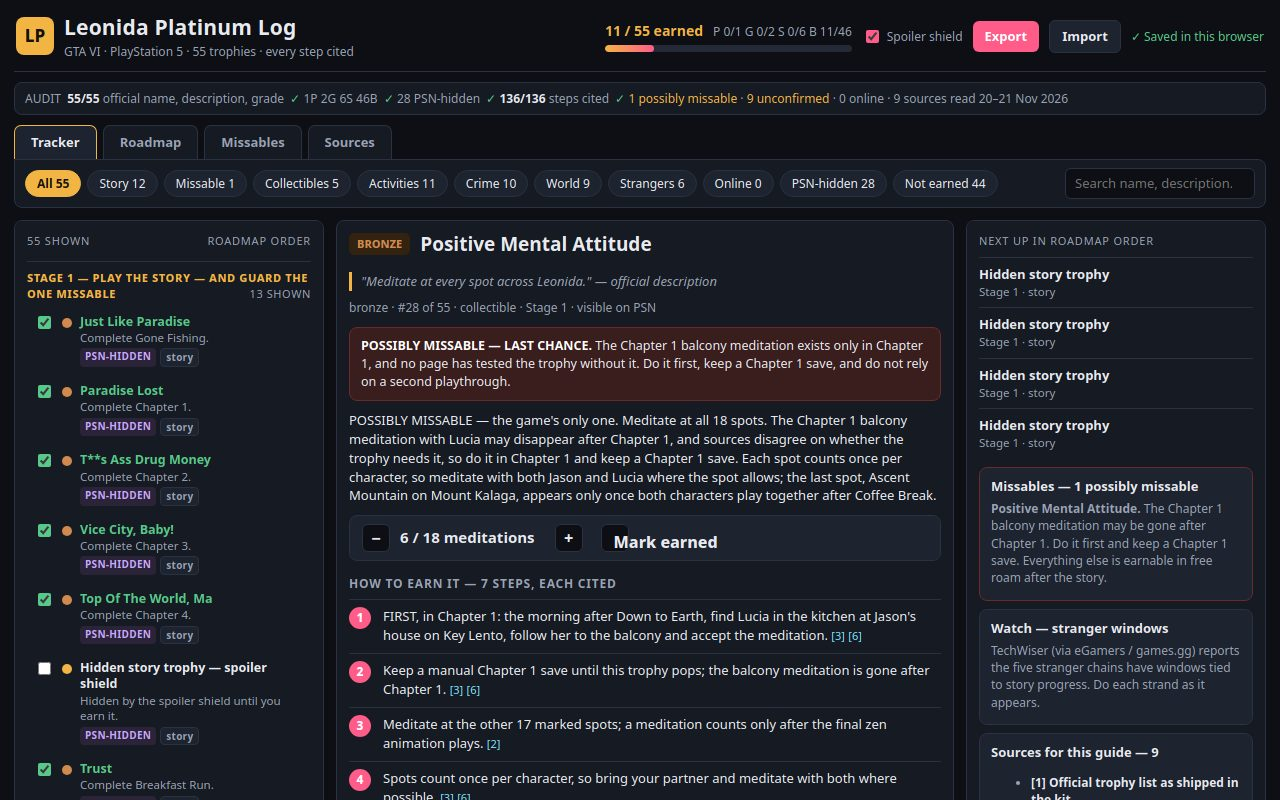
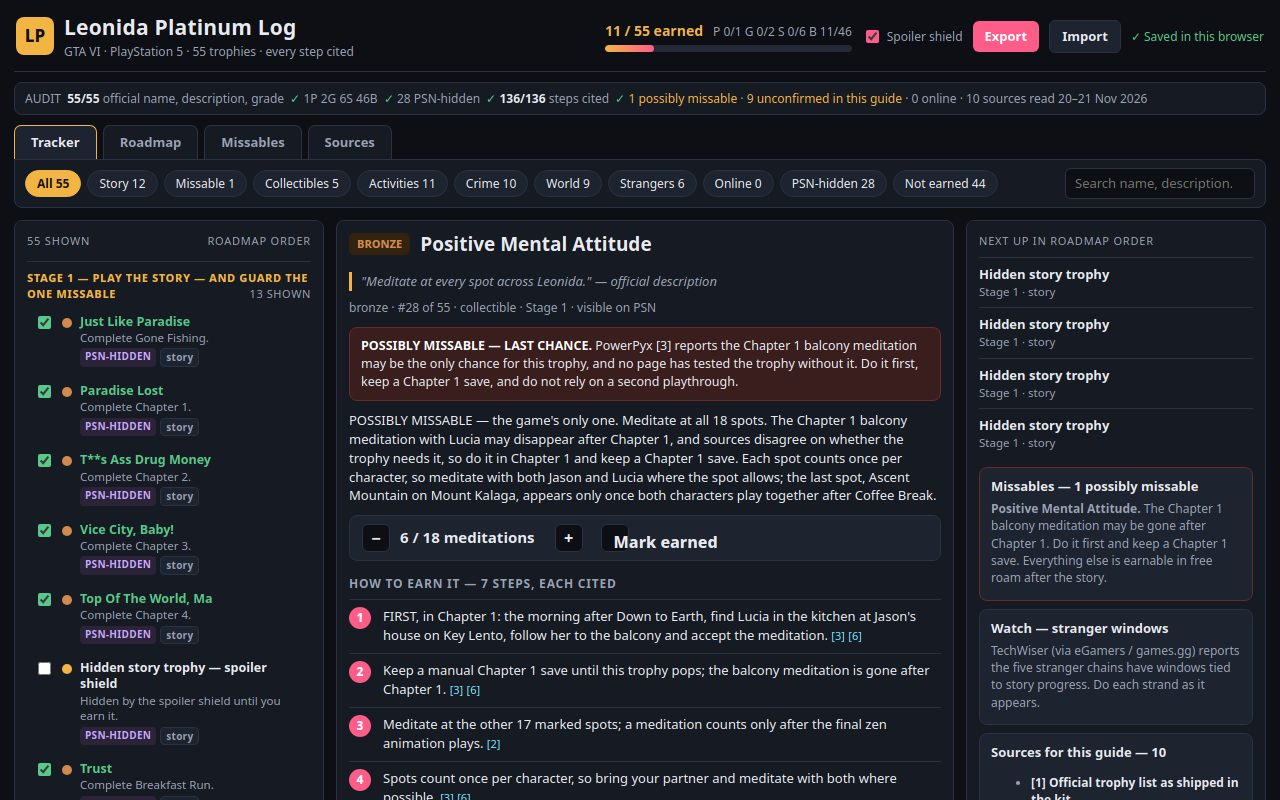
Rerecord v3: re-apply Dot review fixes inside a fresh recording
v2 (d88e7246) was rejected by the platform on transcripts_witnessed:
its fix-round files were changed outside the v1 recording. This v3
re-applies the same four fixes from the v1 code, all written inside
the new recording session, and supersedes v2 in full.

- Demo isolation: ?demo=1 now reads and writes only
  leonida-platinum-log-demo-v1, never the real progress key.
- Spoiler shield: a masked trophy never matches a search query.
- Audit strip reads '9 unconfirmed in this guide'; roadmap stage 6
  notes five of them are still listed unsolved by GameMapa [5].
- Missable banner cites PowerPyx [3] with uncertain wording kept;
  GTABase added as source [10], and the 54 free-roam trophies now
  cite GTABase [10] instead of PushSquare.

Screenshots regenerated from this tree; CDP functional tests 16/16.

Changed region(s): [[0.2812, 0.4062, 0.7188, 0.5], [0.6562, 0.0938, 0.8438, 0.1562]]

diff --git a/app/app.js b/app/app.js
@@ -1,6 +1,7 @@
 // Leonida Platinum Log: offline GTA VI trophy guide and tracker.
 // Loads its own data files only, saves progress in localStorage, exports and imports it.
 const STORE_KEY = 'leonida-platinum-log-v1';
+const DEMO_STORE_KEY = 'leonida-platinum-log-demo-v1';
 const DEMO_EARNED = ['Just Like Paradise', 'Paradise Lost', 'T**s Ass Drug Money', 'Vice City, Baby!', 'Top Of The World, Ma', 'Trust', 'Master of None', 'Baited My Tackle', 'Stick Fiddler', 'Whip It Good', 'Treat Yo Self'];
 const DEMO_COUNTS = { 15: 120, 17: 20, 28: 6, 30: 1, 31: 40, 32: 25 };
 
@@ -13,6 +14,7 @@ const spoilerToggle = document.getElementById('spoilerToggle');
 
 let guideData = null;
 let metaData = null;
+let activeStoreKey = STORE_KEY;
 let state = loadProgress();
 let selectedId = 28;
 let currentFilter = 'all';
@@ -21,7 +23,7 @@ let searchQuery = '';
 
 function loadProgress() {
   try {
-    const saved = JSON.parse(localStorage.getItem(STORE_KEY) ?? 'null');
+    const saved = JSON.parse(localStorage.getItem(activeStoreKey) ?? 'null');
     if (saved && Array.isArray(saved.earned)) {
       return { earned: new Set(saved.earned), counts: saved.counts ?? {}, spoiler: saved.spoiler ?? true };
     }
@@ -30,7 +32,7 @@ function loadProgress() {
 }
 
 function saveProgress() {
-  localStorage.setItem(STORE_KEY, JSON.stringify({
+  localStorage.setItem(activeStoreKey, JSON.stringify({
     earned: [...state.earned], counts: state.counts, spoiler: state.spoiler,
   }));
 }
@@ -65,7 +67,7 @@ function renderAuditStrip() {
   const hidden = guideData.trophies.filter((t) => t.hidden).length;
   const unconfirmed = guideData.trophies.filter((t) => t.guide.includes('UNCONFIRMED')).length;
   const missable = guideData.trophies.filter((t) => t.missable).length;
-  auditStrip.innerHTML = `AUDIT &nbsp;<b>55/55</b> official name, description, grade &nbsp;<span class="ok">&#10003;</span> 1P 2G 6S 46B &nbsp;<span class="ok">&#10003;</span> ${hidden} PSN-hidden &nbsp;<span class="ok">&#10003;</span> <b>${cited}/${steps.length}</b> steps cited &nbsp;<span class="ok">&#10003;</span> <span class="warn">${missable} possibly missable</span> &middot; <span class="warn">${unconfirmed} unconfirmed</span> &middot; 0 online &middot; ${metaData.sources.length} sources read 20&ndash;21 Nov 2026`;
+  auditStrip.innerHTML = `AUDIT &nbsp;<b>55/55</b> official name, description, grade &nbsp;<span class="ok">&#10003;</span> 1P 2G 6S 46B &nbsp;<span class="ok">&#10003;</span> ${hidden} PSN-hidden &nbsp;<span class="ok">&#10003;</span> <b>${cited}/${steps.length}</b> steps cited &nbsp;<span class="ok">&#10003;</span> <span class="warn">${missable} possibly missable</span> &middot; <span class="warn">${unconfirmed} unconfirmed in this guide</span> &middot; 0 online &middot; ${metaData.sources.length} sources read 20&ndash;21 Nov 2026`;
 }
 
 function filterDefinitions() {
@@ -110,7 +112,7 @@ function visibleTrophies() {
   const fn = defs[currentFilter] ?? (() => true);
   const q = searchQuery.trim().toLowerCase();
   return guideData.trophies
-    .filter((t) => fn(t) && (!q || `${t.name} ${t.description}`.toLowerCase().includes(q)))
+    .filter((t) => fn(t) && (!q || (!isMasked(t) && `${t.name} ${t.description}`.toLowerCase().includes(q))))
     .sort((a, b) => a.stage - b.stage || a.id - b.id);
 }
 
@@ -210,7 +212,7 @@ function renderGuideDetail() {
   if (t.missable) {
     const banner = document.createElement('div');
     banner.className = 'banner miss';
-    banner.innerHTML = '<b>POSSIBLY MISSABLE — LAST CHANCE.</b> The Chapter 1 balcony meditation exists only in Chapter 1, and no page has tested the trophy without it. Do it first, keep a Chapter 1 save, and do not rely on a second playthrough.';
+    banner.innerHTML = '<b>POSSIBLY MISSABLE — LAST CHANCE.</b> PowerPyx [3] reports the Chapter 1 balcony meditation may be the only chance for this trophy, and no page has tested the trophy without it. Do it first, keep a Chapter 1 save, and do not rely on a second playthrough.';
     detailCol.append(banner);
   }
   if (!masked && t.guide.includes('UNCONFIRMED')) {
@@ -400,7 +402,7 @@ function renderMissablesView() {
   detailCol.prepend(h);
   const watch = document.createElement('div');
   watch.className = 'rail-card';
-  watch.innerHTML = '<h4>Watch, not missable — stranger chains</h4><p>TechWiser (via eGamers / games.gg) reports the five stranger chains have windows tied to story progress. Not confirmed as missable by any other source, so this guide lists it as a watch item, not a missable.</p><h4>Everything else</h4><p>All 54 other trophies are earnable in free roam after the story (PushSquare). No online trophies exist, so nothing needs multiplayer.</p>';
+  watch.innerHTML = '<h4>Watch, not missable — stranger chains</h4><p>TechWiser (via eGamers / games.gg) reports the five stranger chains have windows tied to story progress. Not confirmed as missable by any other source, so this guide lists it as a watch item, not a missable.</p><h4>Everything else</h4><p>All 54 other trophies are earnable in free roam after the story (GTABase [10]). No online trophies exist, so nothing needs multiplayer.</p>';
   detailCol.append(watch);
 }
 
@@ -484,12 +486,15 @@ function applyShotParams() {
   const shot = params.get('shot');
   const demo = params.get('demo') === '1';
   if (demo) {
+    activeStoreKey = DEMO_STORE_KEY;
+    state = loadProgress();
     state.earned = new Set(DEMO_EARNED);
     state.counts = { ...DEMO_COUNTS };
     saveProgress();
   }
   if (params.get('spoiler') === '0') state.spoiler = false;
   if (params.get('spoiler') === '1') state.spoiler = true;
+  if (demo) saveProgress();
   const select = Number(params.get('select'));
   if (Number.isInteger(select) && trophyById(select)) selectedId = select;
   if (shot === 'roadmap') currentView = 'roadmap';
